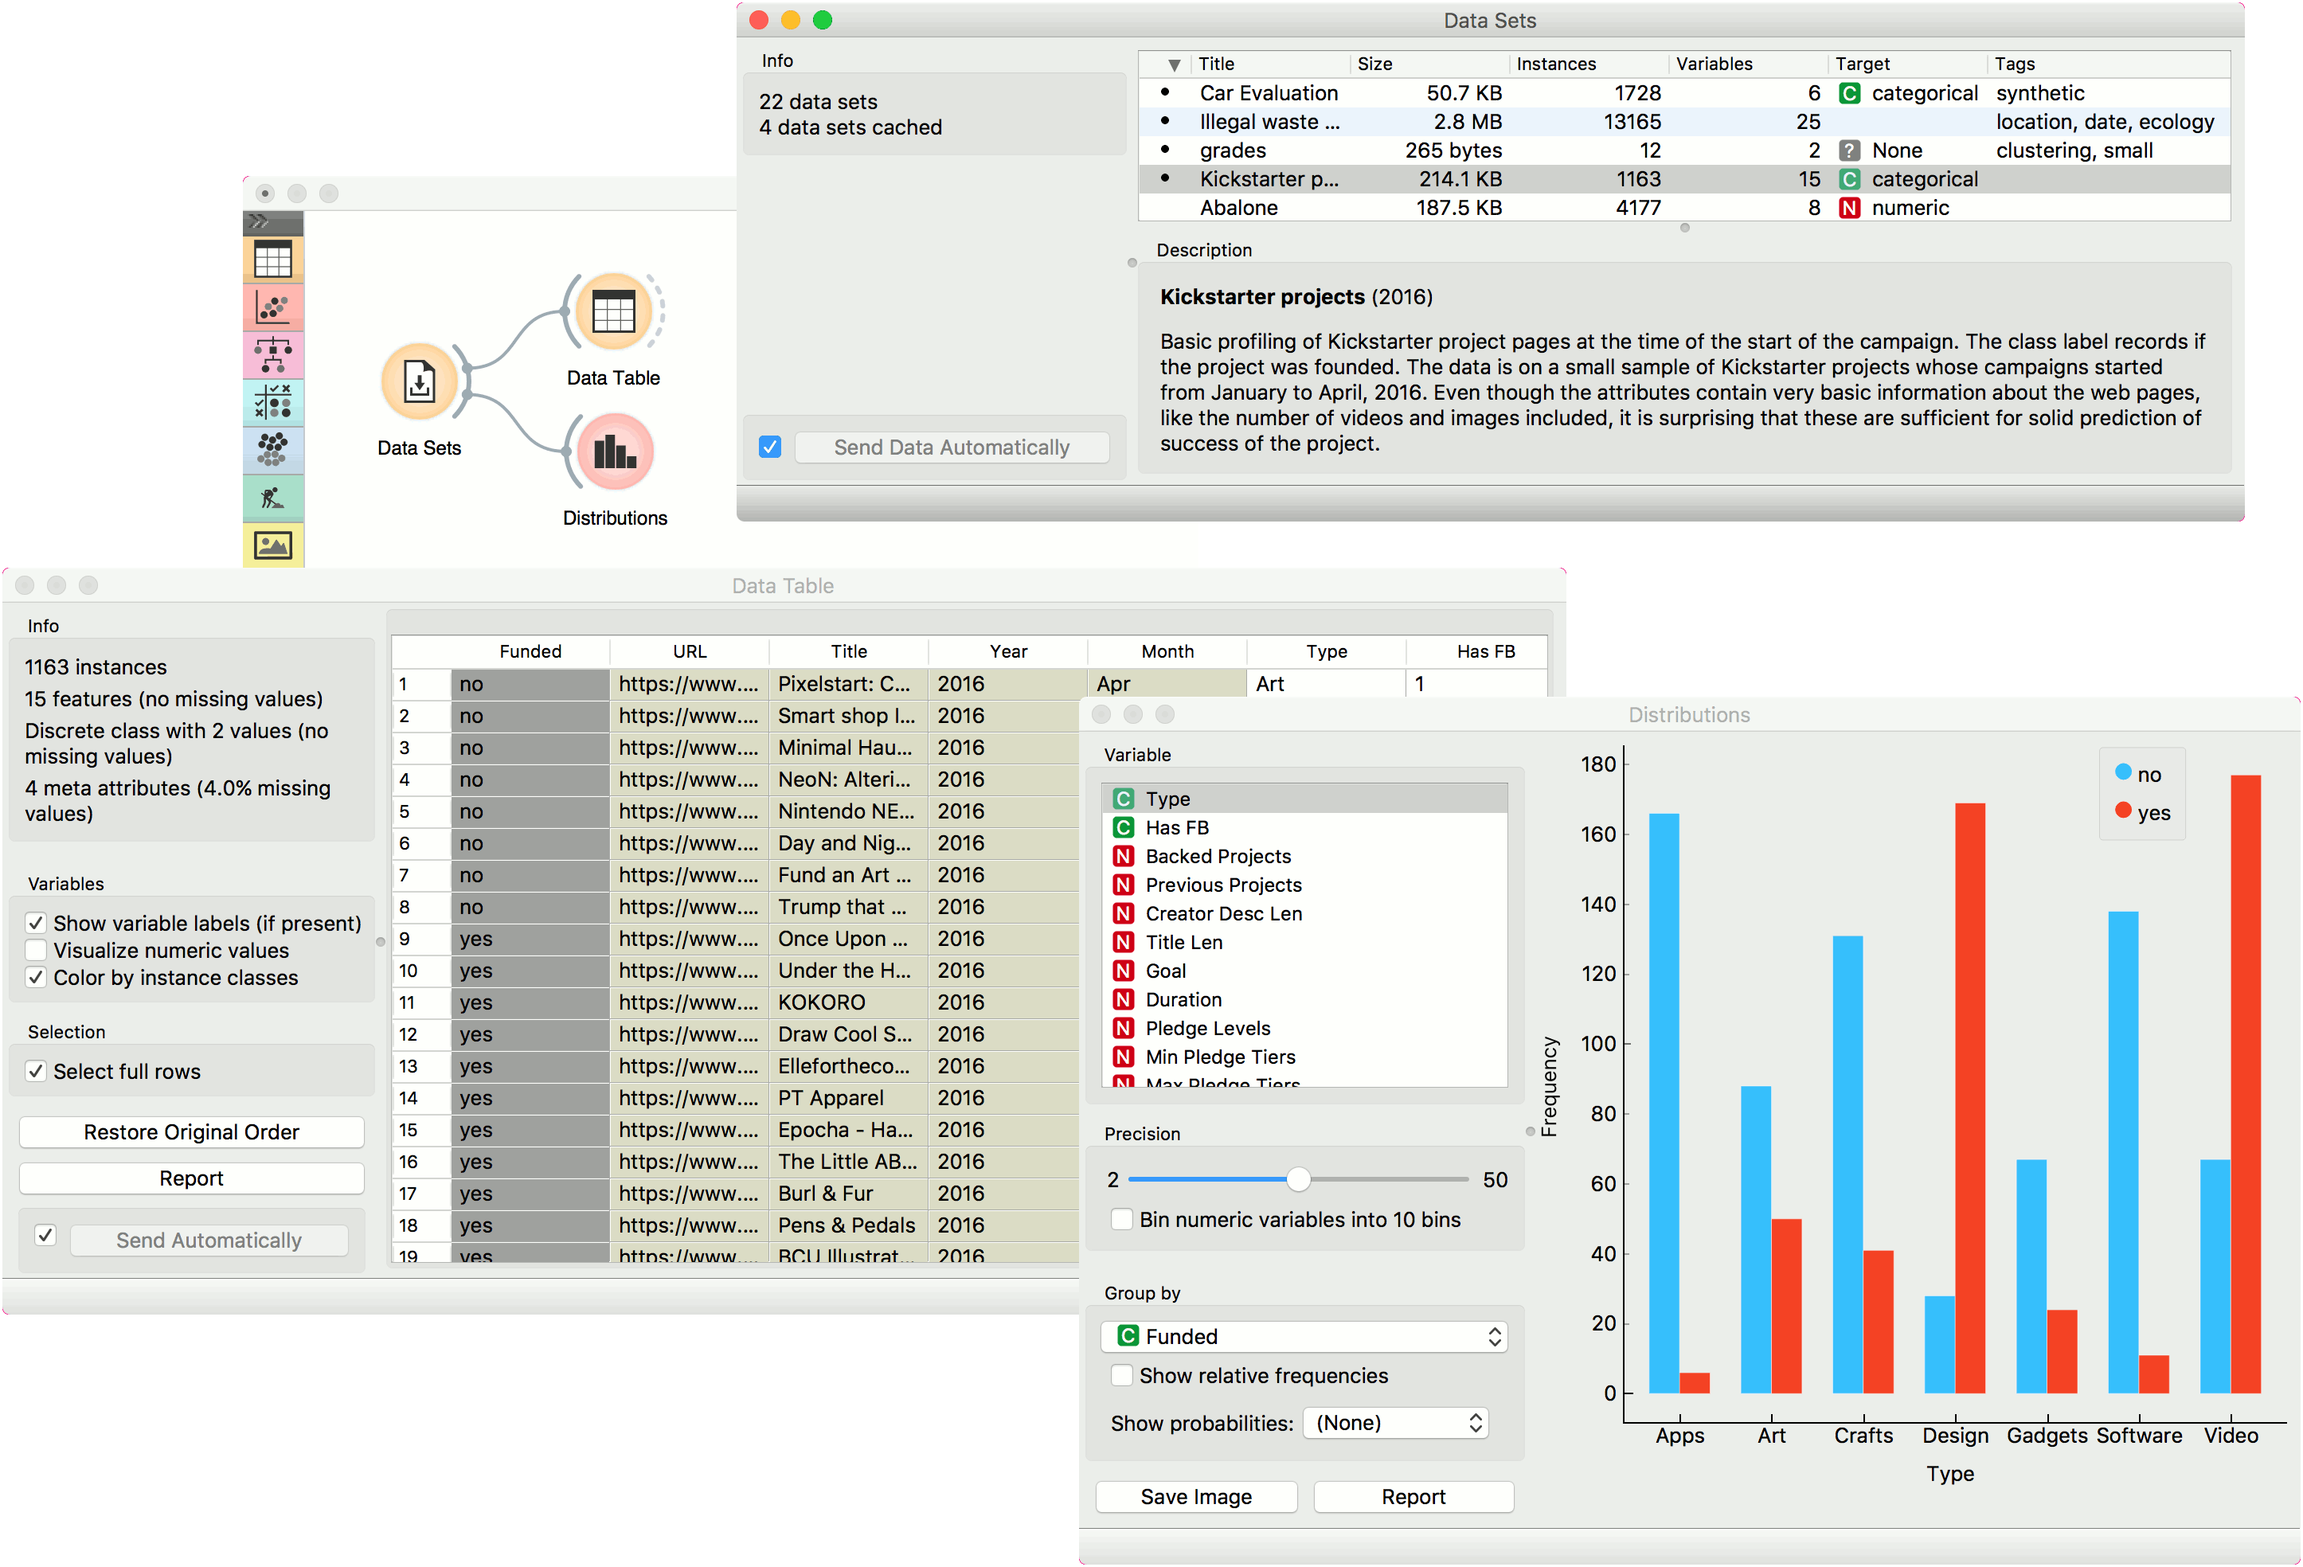
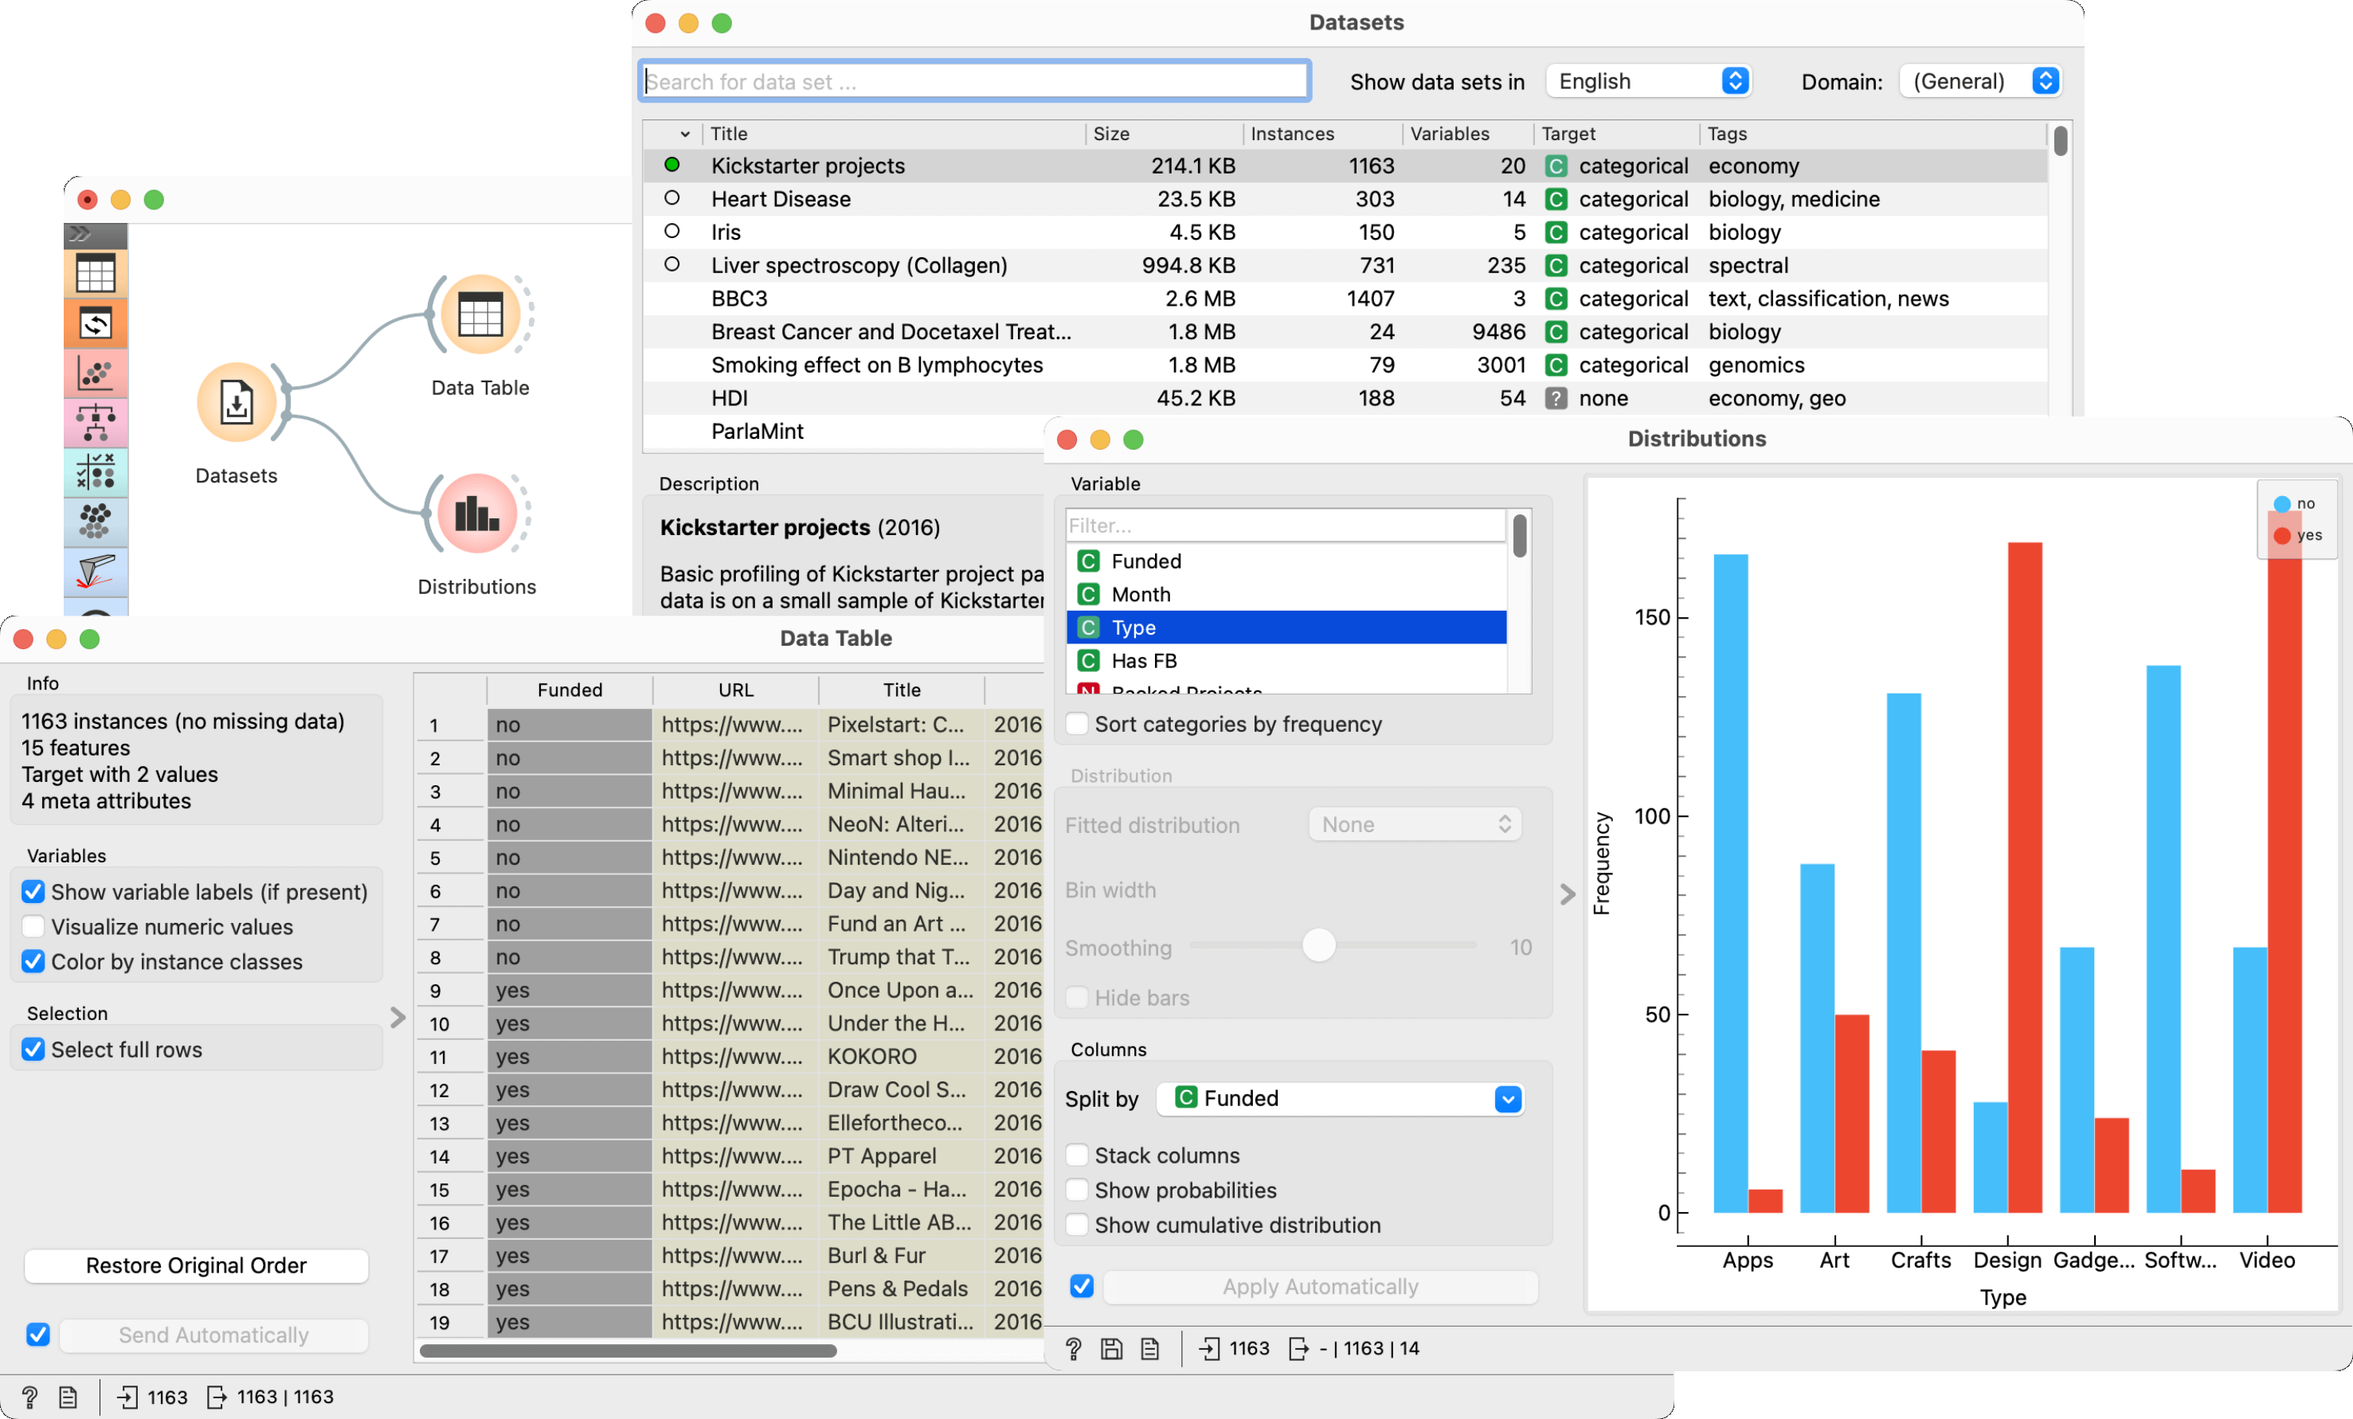
Updated Datasets widget

diff --git a/doc/visual-programming/source/widgets/data/datasets.md b/doc/visual-programming/source/widgets/data/datasets.md
@@ -7,18 +7,19 @@ Load a dataset from an online repository.
 
 - Data: output dataset
 
-**Datasets** widget retrieves selected dataset from the server and sends it to the output. File is downloaded to the local memory and thus instantly available even without the internet connection. Each dataset is provided with a description and information on the data size, number of instances, number of variables, target and tags.
+The **Datasets** widget retrieves selected dataset from a server upon double-click and sends it to the output. The file is downloaded to the local disk and thus will be available even without internet connection. Each dataset is provided with a description and information on the data size, number of instances, number of variables, target and tags.
 
 ![](images/Datasets-stamped.png)
 
-1. Information on the number of datasets available and the number of them downloaded to the local memory.
-2. Content of available datasets. Each dataset is described with the size, number of instances and variables, type of the target variable and tags.
-3. Formal description of the selected dataset.
-4. If *Send Data Automatically* is ticked, selected dataset is communicated automatically. Alternatively, press *Send Data*.
+1. Search box to filter dataset on titles, variables, targets and tags. 
+2. Change the language of displayed datasets.
+3. Select the domain of displayed datasets.
+4. Content of available datasets. Each dataset is described with the size, number of instances and variables, type of the target variable and tags.
+5. Formal description of the selected dataset.
 
 Example
 -------
 
-Orange workflows can start with **Datasets** widget instead of **File** widget. In the example below, the widget retrieves a dataset from an online repository (Kickstarter data), which is subsequently sent to both the [Data Table](../data/datatable) and the [Distributions](../visualize/distributions).
+Orange workflows can start with the **Datasets** widget instead of the **File** widget. In the example below, the widget retrieves a dataset from an online repository (Kickstarter data), which is subsequently sent to both the [Data Table](../data/datatable) and the [Distributions](../visualize/distributions).
 
 ![](images/Datasets-Workflow.png)
